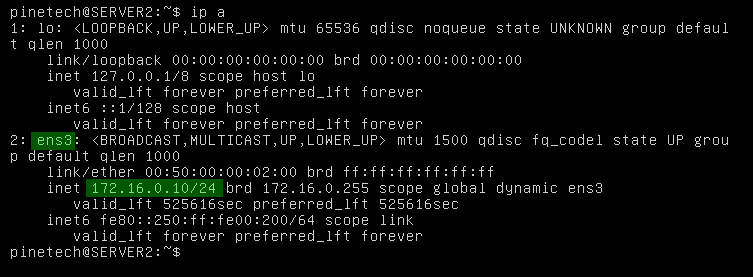
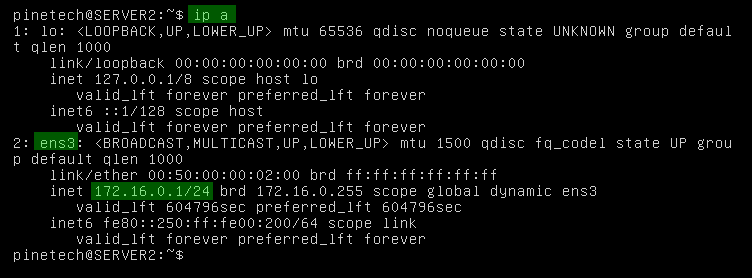
2018_08_23_15_33

Changed region(s): [[0.0, 0.0, 0.9787, 0.9531]]

diff --git a/LAB01/README.md b/LAB01/README.md
@@ -459,7 +459,7 @@ Prencha os campos com as informações Abaixo:
 
 Em ***Anddress Range***, Clique em ***+Create New***
 
-*Starting IP*: ***172.16.0.10***  
+*Starting IP*: ***172.16.0.1***  
 *End IP*: ***172.16.0.100***
 
 *Network*: ***255.255.255.0***
@@ -472,7 +472,7 @@ Efetuar login no ***SERVIDOR2*** com as credencias informadas no inicio do LAB.
 
 ![SERVER2 Login Prompt](https://raw.githubusercontent.com/leandropinheiro/FORTIGATE-HANDSON/master/Img/SERVER2-Login.png)
 
-Utilizer o comando ***ip a*** para verificar as configurações da Interface ***ens3***
+Utilize o comando ***ip a*** para verificar as configurações da Interface ***ens3***
 
 ![SERVER2 verificar ip da Interface ens3](https://raw.githubusercontent.com/leandropinheiro/FORTIGATE-HANDSON/master/Img/SERVER2-ip_a-ens3_1.png)
 
@@ -480,3 +480,30 @@ Execute um ping para o IP da Interface *DMZ* do ***FG_A***, depois de algumas re
 
 ![SERVER 2 executar ping no IP da DMZ do FG_A](https://raw.githubusercontent.com/leandropinheiro/FORTIGATE-HANDSON/master/Img/SERVER2-ping-FG_A-DMZ_1.png)
 
+3. Criar um *Lease DHCP Fixo* (Reserva) para o ***SERVER2*** no ***FG_A***\:
+
+Selecione a Interface *DMZ* e clique no botão *Edit*
+
+![FORTIGAGE FG_A selecionar DMZ para edição](https://raw.githubusercontent.com/leandropinheiro/FORTIGATE-HANDSON/master/Img/FG_A-edit-DMZ_1.png)
+
+Navegue até a seção de DHCP e expanda ***\+ Advanced***
+
+![FORTIGATE FG_A Edição DMZ seção DHCP + Advanced](https://raw.githubusercontent.com/leandropinheiro/FORTIGATE-HANDSON/master/Img/FG_A-edit-DMZ-DHCP_ADVANCED_1.png)
+
+Execute o comando **ip a** no ***SERVER2*** e anote o *MAC Address* da Interface *ens3*\.
+
+![SERVER2 Interface ens3 MAC Address](https://raw.githubusercontent.com/leandropinheiro/FORTIGATE-HANDSON/master/Img/SERVER2-ip_a-ens3_2.png)
+
+Retorne a Interface *WEB* do ***FG_A*** e navegue até a **MAC Reservation + Access Control**, preencha com os dados abaixo:
+
+*MAC Address*: ***00:50:00:00:02:00***  
+*Action or IP*: ***Reserve IP | 172.16.0.10***  
+*Description*: ***SERVER2***
+
+![FORTIGATE FG_A Criar Reserva SERVER2](https://raw.githubusercontent.com/leandropinheiro/FORTIGATE-HANDSON/master/Img/FG_A-edit-DMZ-DHCP_ADVANCED_2.png)
+
+Clique no botão ***OK***
+
+Acesse o ***SERVER2***, execute o comando **sudo netplan apply** para renovar o IP, e depis **ip a** para verificar se obteve o IP Reservado.
+
+![SERVER2 verificar alterações na Interface ens3](https://raw.githubusercontent.com/leandropinheiro/FORTIGATE-HANDSON/master/Img/SERVER2-ip_a-ens3_3.png)
